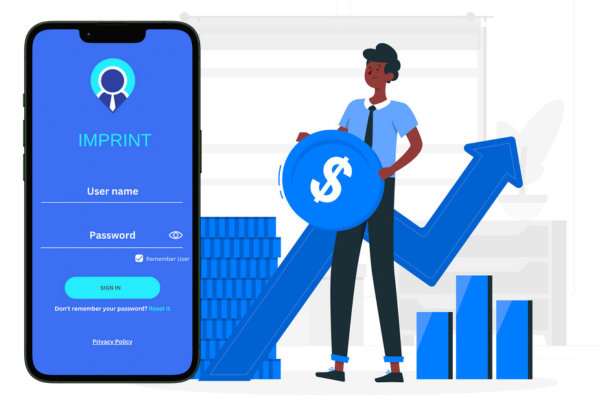
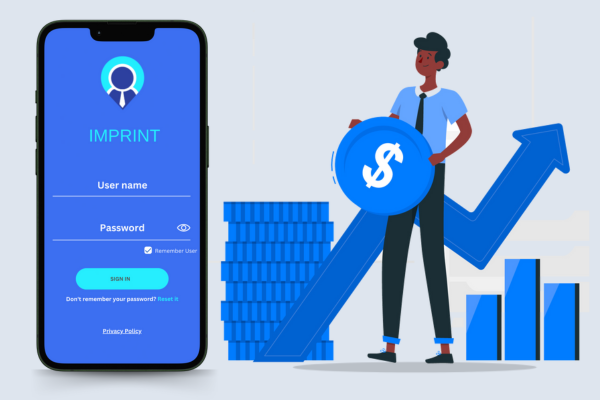
init

diff --git a/index.html b/index.html
@@ -8,6 +8,7 @@
       table {
         box-shadow: 0 4px 8px rgba(0, 0, 0, 0.2);
       }
+
       @media only screen and (max-width: 600px) {
         table {
           width: 100% !important;
@@ -17,6 +18,21 @@
           max-width: 100%;
           height: auto;
         }
+
+        h1 {
+          font-size: 22px;
+        }
+      }
+
+      @media only screen and (max-width: 400px) {
+        h1 {
+          font-size: 16px !important;
+        }
+      }
+      @media only screen and (max-width: 300px) {
+        h1 {
+          font-size: 12px !important;
+        }
       }
     </style>
   </head>
@@ -25,17 +41,24 @@
     <table
       cellspacing="0"
       cellpadding="0"
-      style="max-width: 600px; width: 600px; font-family:Arial, Helvetica, sans-serif;"
+      style="
+        max-width: 600px;
+        width: 600px;
+        font-family: Arial, Helvetica, sans-serif;
+      "
       align="center"
     >
-     <tr>
-      <td colspan="2">
-        <h1 style="font-size: 25px;text-align: center; padding: 0 30px;">
-          Supercharge Your ROI with the Right Field Force Performance Monitoring Solution!
-        </h1>
-        <a target="_blank" href="http://imprintai.us"><img src="./images/banner.png" alt=""></a>
-      </td>
-     </tr>
+      <tr>
+        <td colspan="2">
+          <h1 style="font-size: 25px; text-align: center; padding: 0 30px">
+            Supercharge Your ROI with the Right Field Force Performance
+            Monitoring Solution!
+          </h1>
+          <a target="_blank" href="http://imprintai.us"
+            ><img src="./images/banner1.png" alt=""
+          /></a>
+        </td>
+      </tr>
       <tr>
         <td
           colspan="2"
@@ -139,7 +162,7 @@
           <br />
           <a
             target="_blank"
-            style="text-decoration: none; color: black; color: #e60000;"
+            style="text-decoration: none; color: black; color: #e60000"
             href="https://www.astiinfotech.com/Privacy-policy/"
             >PRIVACY POLICY</a
           >
